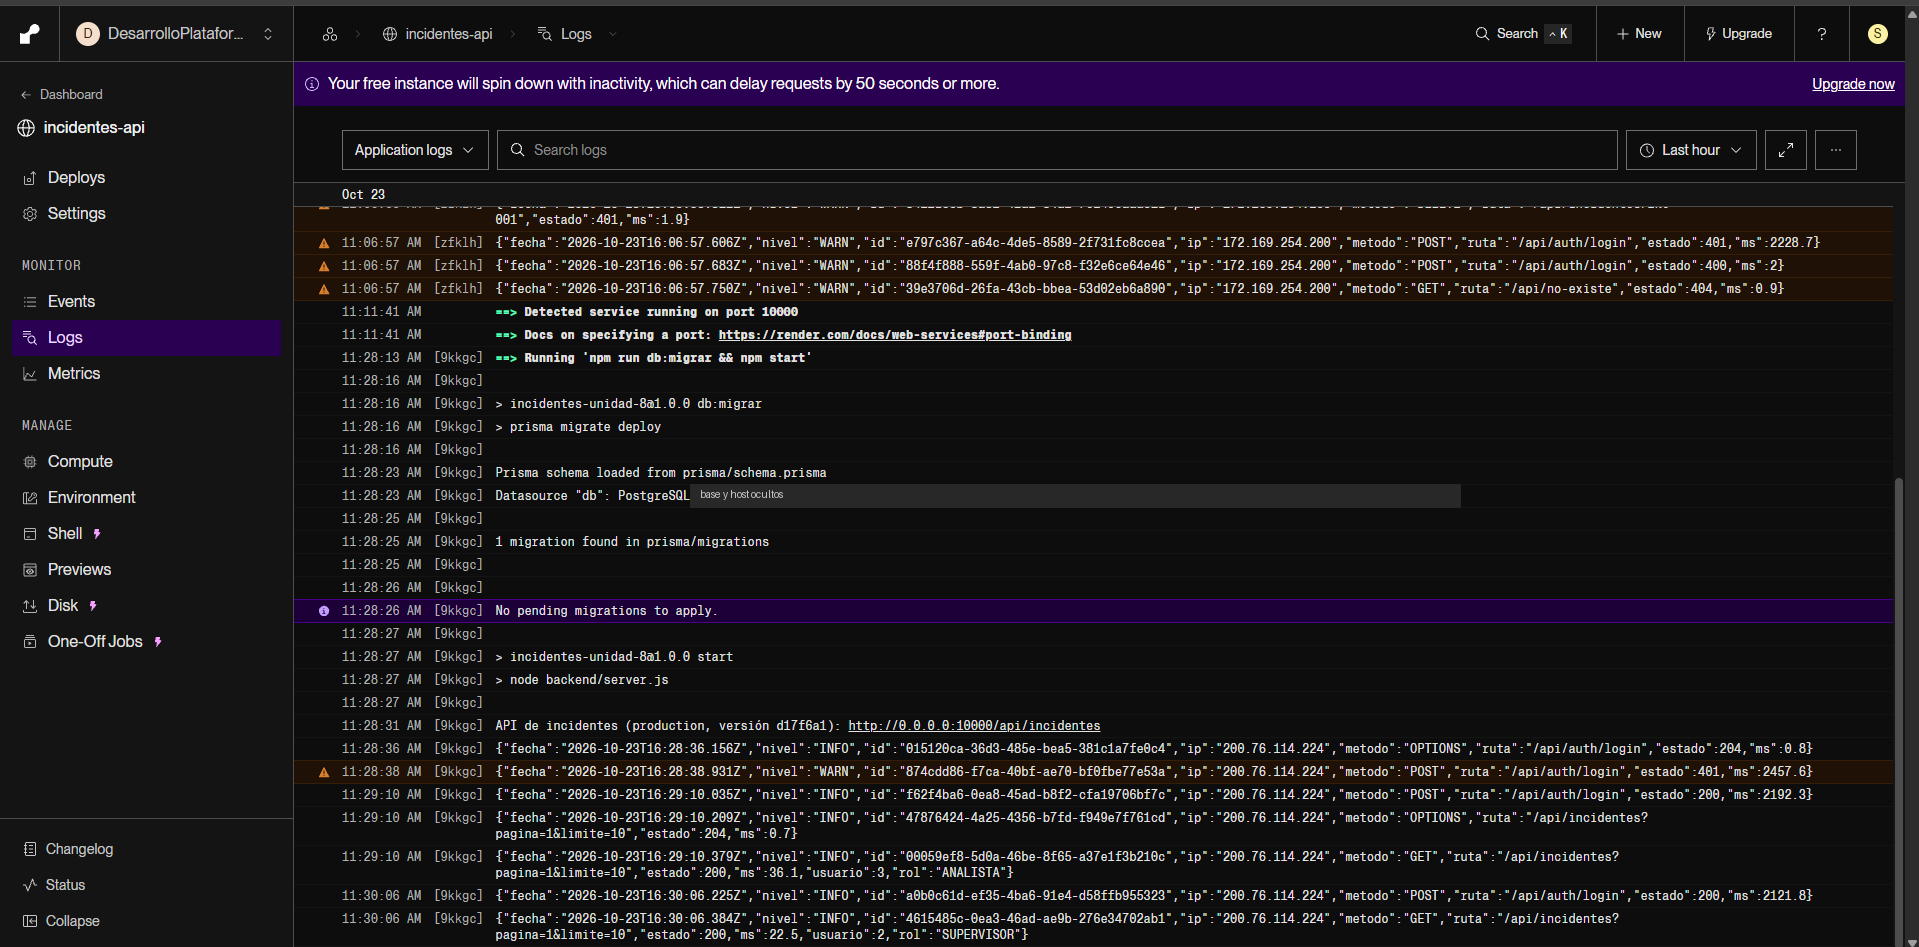
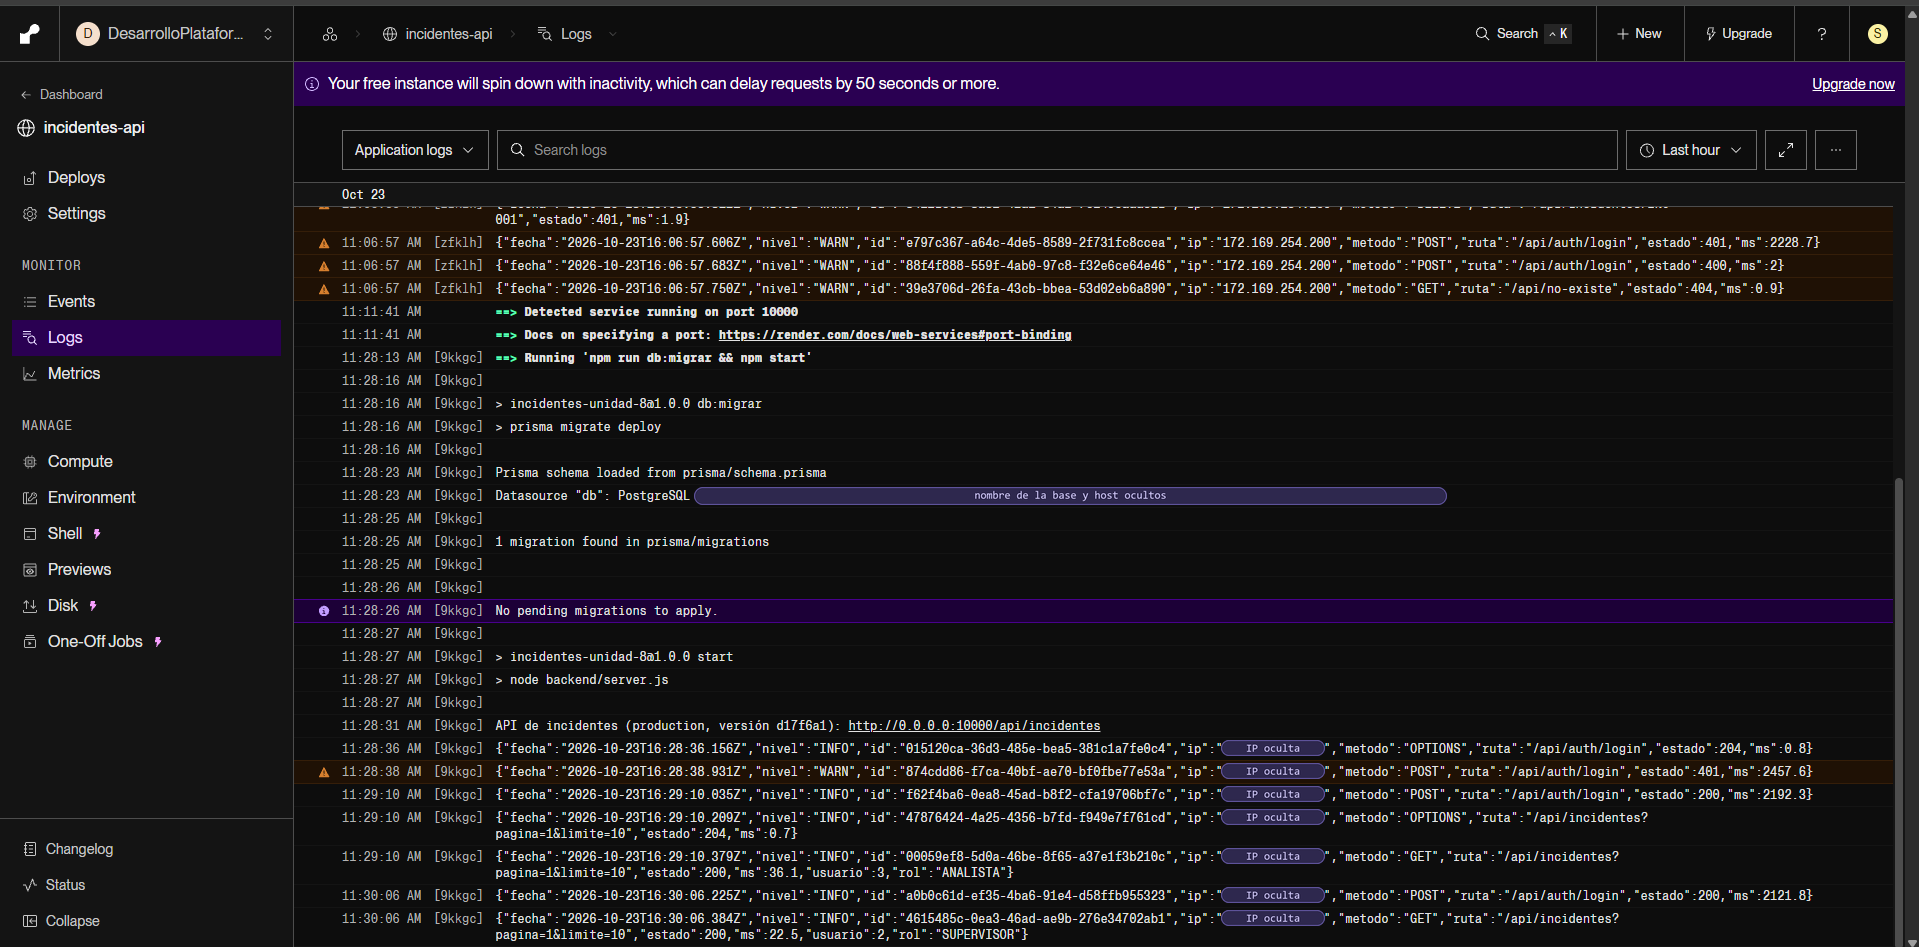
Feat: [PDP- 15] [Santiago Díaz] Redact client IP in log screenshots and add final production results

Changed region(s): [[0.3382, 0.49, 0.7686, 0.5512], [0.6149, 0.7656, 0.7071, 0.9799]]

diff --git a/docs/PRUEBAS.md b/docs/PRUEBAS.md
@@ -34,7 +34,7 @@ Corren contra `incidentes_test`, una base separada que el script vacía al empez
 
 ## Producción
 
-`scripts/produccion.cjs` prueba la URL pública. Los casos P01 a P11 no necesitan cuentas y corren en Actions después de cada despliegue. P12 a P21 usan las contraseñas de `.env.produccion` y se ejecutan desde la computadora; crean un incidente y lo eliminan al final.
+`scripts/produccion.cjs` prueba la URL pública. Los casos P01 a P11 no necesitan cuentas y corren en Actions después de cada despliegue. P12 a P21 usan las contraseñas de `.env.produccion` y se ejecutan desde la computadora; crean un incidente y lo eliminan al final. La última corrida completa fue sobre `5665fe9` ([resultado](../evidencias/Unidad%208/pruebas-produccion.md)); los commits siguientes solo cambian documentación y evidencias.
 
 | Caso | Esperado | Obtenido |
 | --- | --- | --- |
@@ -100,5 +100,5 @@ Capturas: [11](../evidencias/Unidad%208/11-prueba-fuego-bug.png), [12](../eviden
 | El CRUD funciona y las validaciones responden 400 | Sí (P12 a P21) |
 | Los datos persisten tras reiniciar el servicio | Sí (PF-07: INC-006 creado y editado antes del reinicio, consultado después) |
 | No hay `.env` en ningún commit; la URL de la base y los hooks solo están en Render y GitHub | Sí: solo se versionaron los `.env.example` y ninguna de las 13 claves reales aparece en `git log -p` |
-| Los logs no muestran cuerpos, contraseñas ni tokens | Sí: solo método, ruta, código, duración, usuario y rol ([23](../evidencias/Unidad%208/23-render-logs-sesiones.png), [23b](../evidencias/Unidad%208/23b-render-logs-crud.png)) |
-| El último workflow está en verde y Render tiene el último commit de `main` | Sí (`d17f6a1`, capturas 14 a 16) |
+| Los logs no muestran cuerpos, contraseñas ni tokens | Sí: solo método, ruta, código, duración, usuario y rol ([23](../evidencias/Unidad%208/23-render-logs-sesiones.png), [23b](../evidencias/Unidad%208/23b-render-logs-crud.png)). En las capturas tapamos la IP del cliente y el host de la base |
+| El último workflow está en verde y Render tiene el último commit de `main` | Sí (capturas 14 a 16; `/api/salud` muestra el commit de la etiqueta `v1.0.0`) |

diff --git a/evidencias/Unidad 8/pruebas-produccion.md b/evidencias/Unidad 8/pruebas-produccion.md
@@ -1,9 +1,9 @@
 # Verificación en producción
 
-- Fecha: 2026-10-23T20:24:02.259Z
+- Fecha: 2026-10-23T20:50:01.262Z
 - API: https://incidentes-api-xqiw.onrender.com/api
 - Cliente: https://incidentes-web-0eqn.onrender.com
-- Versión en línea: d17f6a1
+- Versión en línea: 5665fe9
 - Resultado: 21 de 21 casos correctos
 
 | Caso | Solicitud | Esperado | Obtenido |
@@ -24,8 +24,8 @@
 | ✔ P14 El analista registra un incidente | POST /api/incidentes | 201 | 201 |
 | ✔ P15 Datos inválidos: fecha futura, correo y HTML | POST /api/incidentes | 400 | 400 |
 | ✔ P16 Título repetido | POST /api/incidentes | 409 | 409 |
-| ✔ P17 Rol insuficiente: el analista intenta eliminar | DELETE /api/incidentes/INC-007 | 403 | 403 |
-| ✔ P18 El supervisor cambia el estado | PUT /api/incidentes/INC-007 | 200 | 200 |
-| ✔ P19 El cambio persiste en una nueva consulta | GET /api/incidentes/INC-007 | 200 | 200 |
-| ✔ P20 El administrador elimina el incidente | DELETE /api/incidentes/INC-007 | 204 | 204 |
-| ✔ P21 El incidente eliminado ya no existe | GET /api/incidentes/INC-007 | 404 | 404 |
+| ✔ P17 Rol insuficiente: el analista intenta eliminar | DELETE /api/incidentes/INC-009 | 403 | 403 |
+| ✔ P18 El supervisor cambia el estado | PUT /api/incidentes/INC-009 | 200 | 200 |
+| ✔ P19 El cambio persiste en una nueva consulta | GET /api/incidentes/INC-009 | 200 | 200 |
+| ✔ P20 El administrador elimina el incidente | DELETE /api/incidentes/INC-009 | 204 | 204 |
+| ✔ P21 El incidente eliminado ya no existe | GET /api/incidentes/INC-009 | 404 | 404 |

diff --git a/agents/revision-unidad-8.md b/agents/revision-unidad-8.md
@@ -33,11 +33,11 @@ Revisión del 22 y 23 de octubre de 2026 con el agente auditor (Claude Code) apl
 ## Verificaciones
 
 - **Prueba de fuego:** el commit `ef50c55` dio al analista el permiso de eliminar. Fallaron las unitarias y las de integración, el despliegue quedó omitido y Render no recibió el commit. El `git revert` (`d17f6a1`) se desplegó con 11 de 11.
-- **Secretos:** solo se versionaron los `.env.example`. Ninguna de las 13 claves reales de `.env` y `.env.produccion`, ni los Deploy Hooks, aparece en `git log -p`.
+- **Secretos:** solo se versionaron los `.env.example`. Ninguna de las 13 claves reales de `.env` y `.env.produccion`, ni los Deploy Hooks, aparece en `git log -p`. En las capturas de logs (23 y 23b) se taparon la IP pública del equipo y el host de la base.
 - **CSP en el navegador:** el cliente carga sin errores en consola y llega a la API; un script en línea y una conexión a otro dominio quedan bloqueados.
 - **Móvil:** a 375 px no hay desplazamiento horizontal en el inicio de sesión; el equipo revisó el panel a 400 px.
 - **Persistencia:** INC-006 se creó y editó antes de reiniciar el servicio y después seguía "En revisión" (`persistencia-reinicio.txt`).
-- **Producción:** 21 de 21 casos con las tres cuentas.
+- **Producción:** 21 de 21 casos con las tres cuentas, sobre `5665fe9`.
 
 ## Resultado
 
